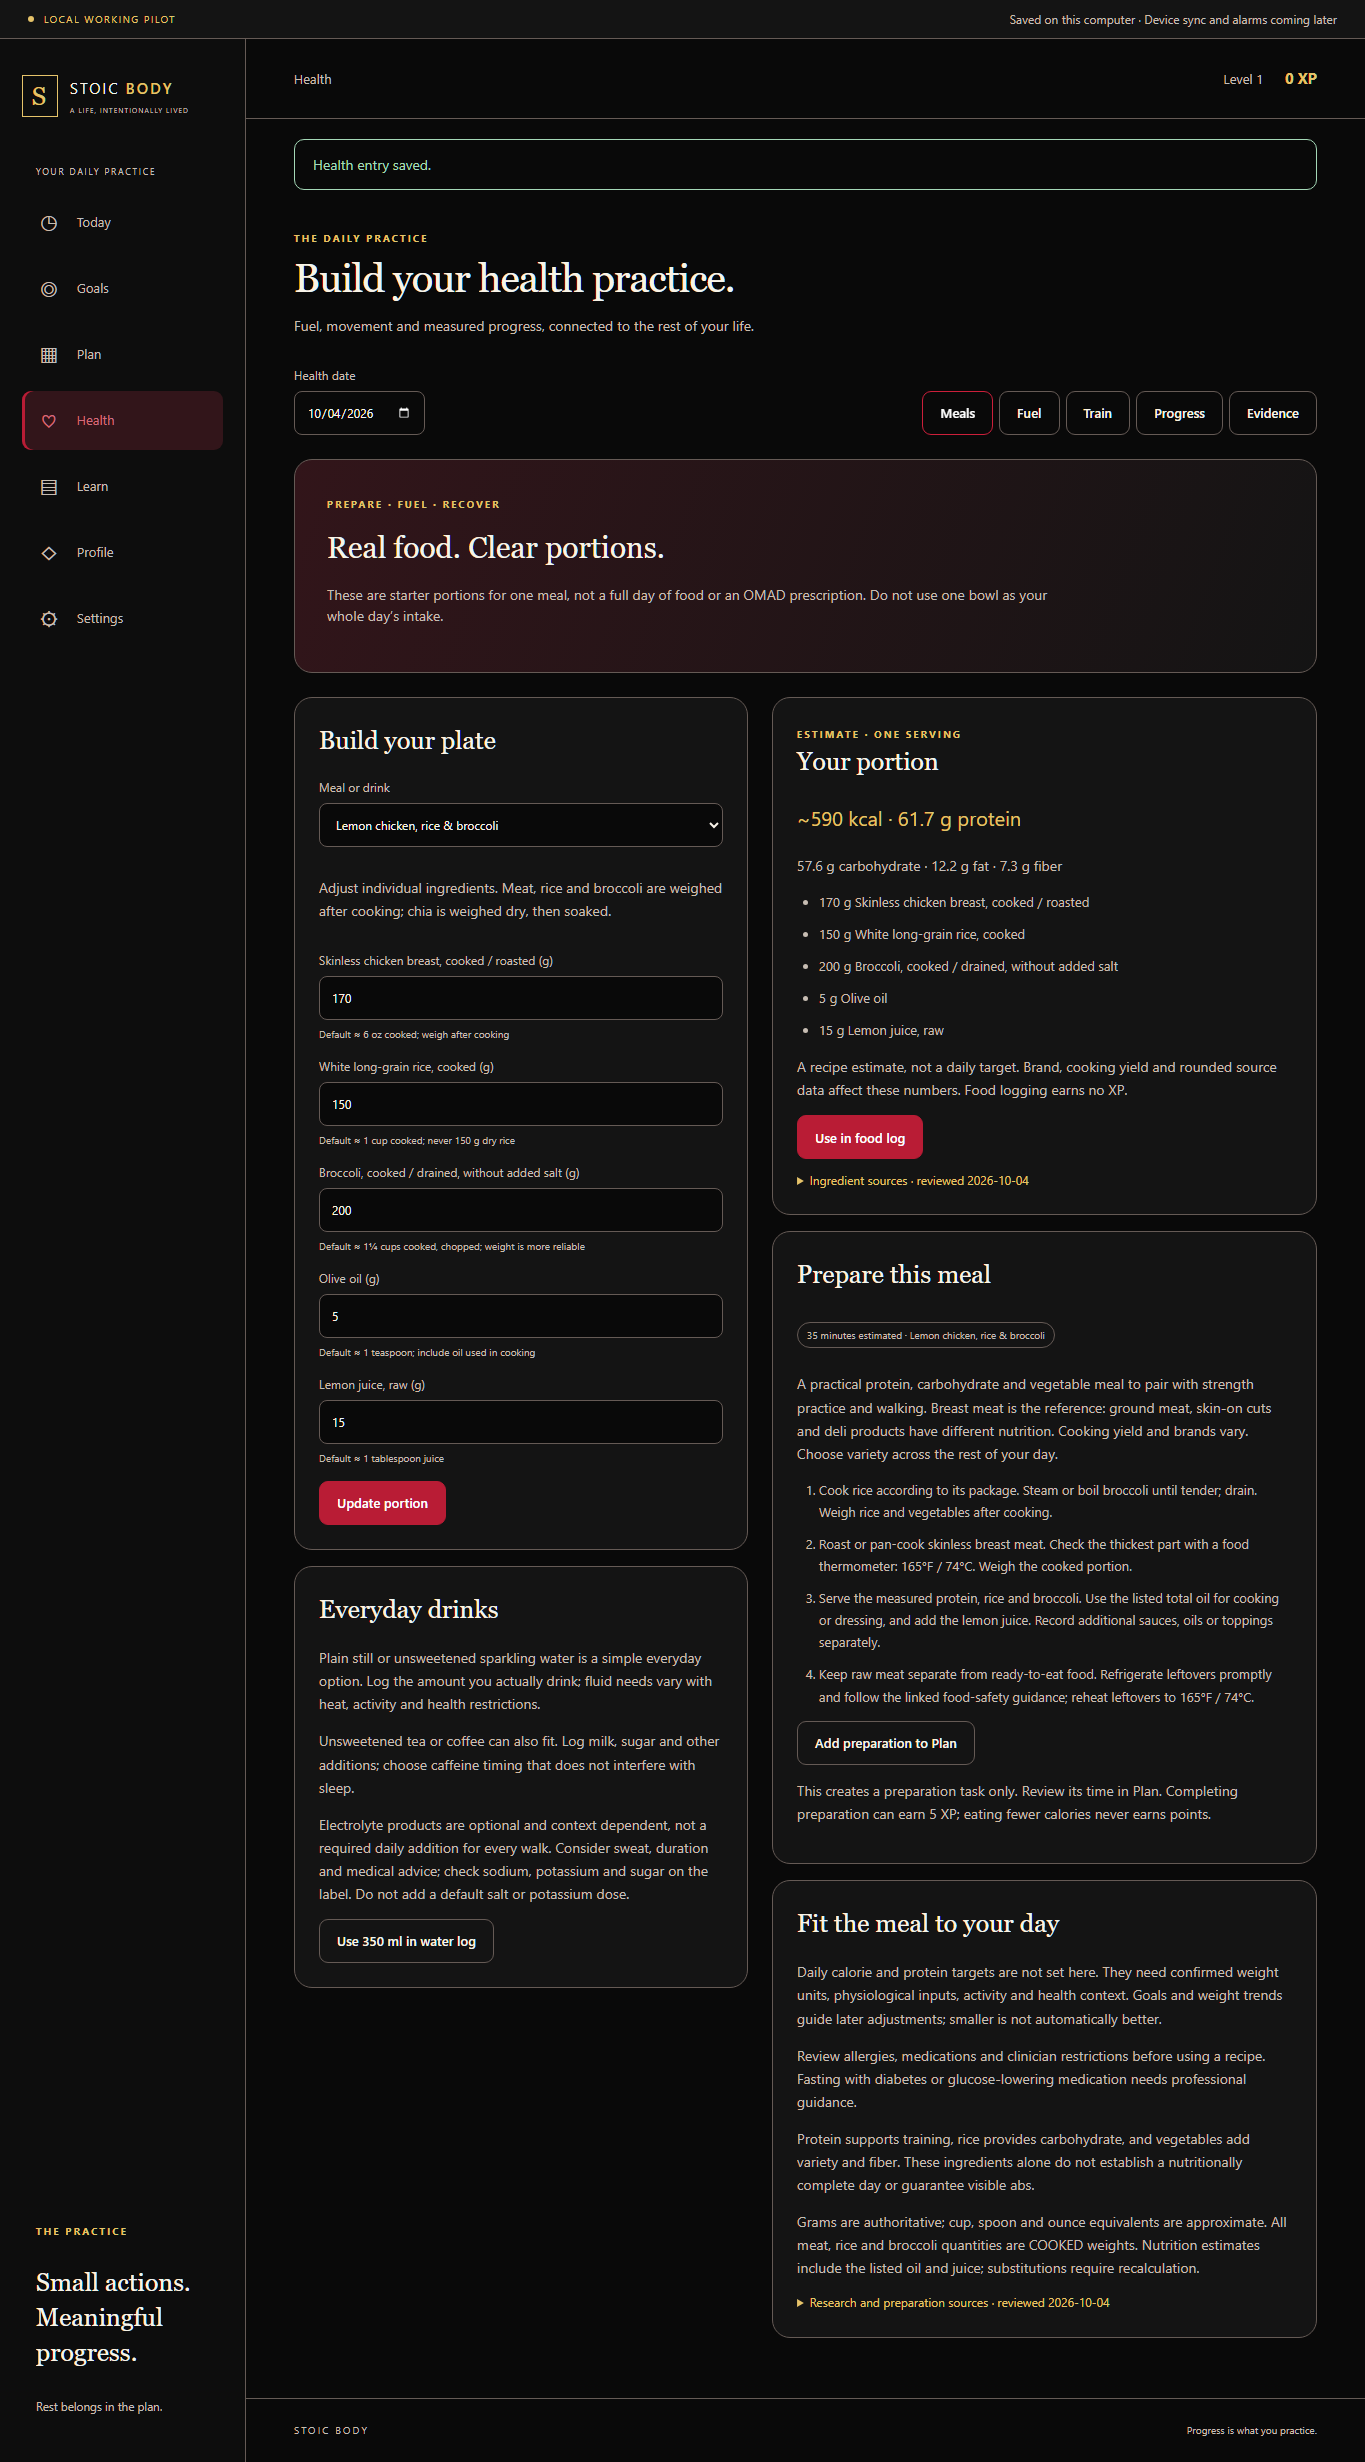
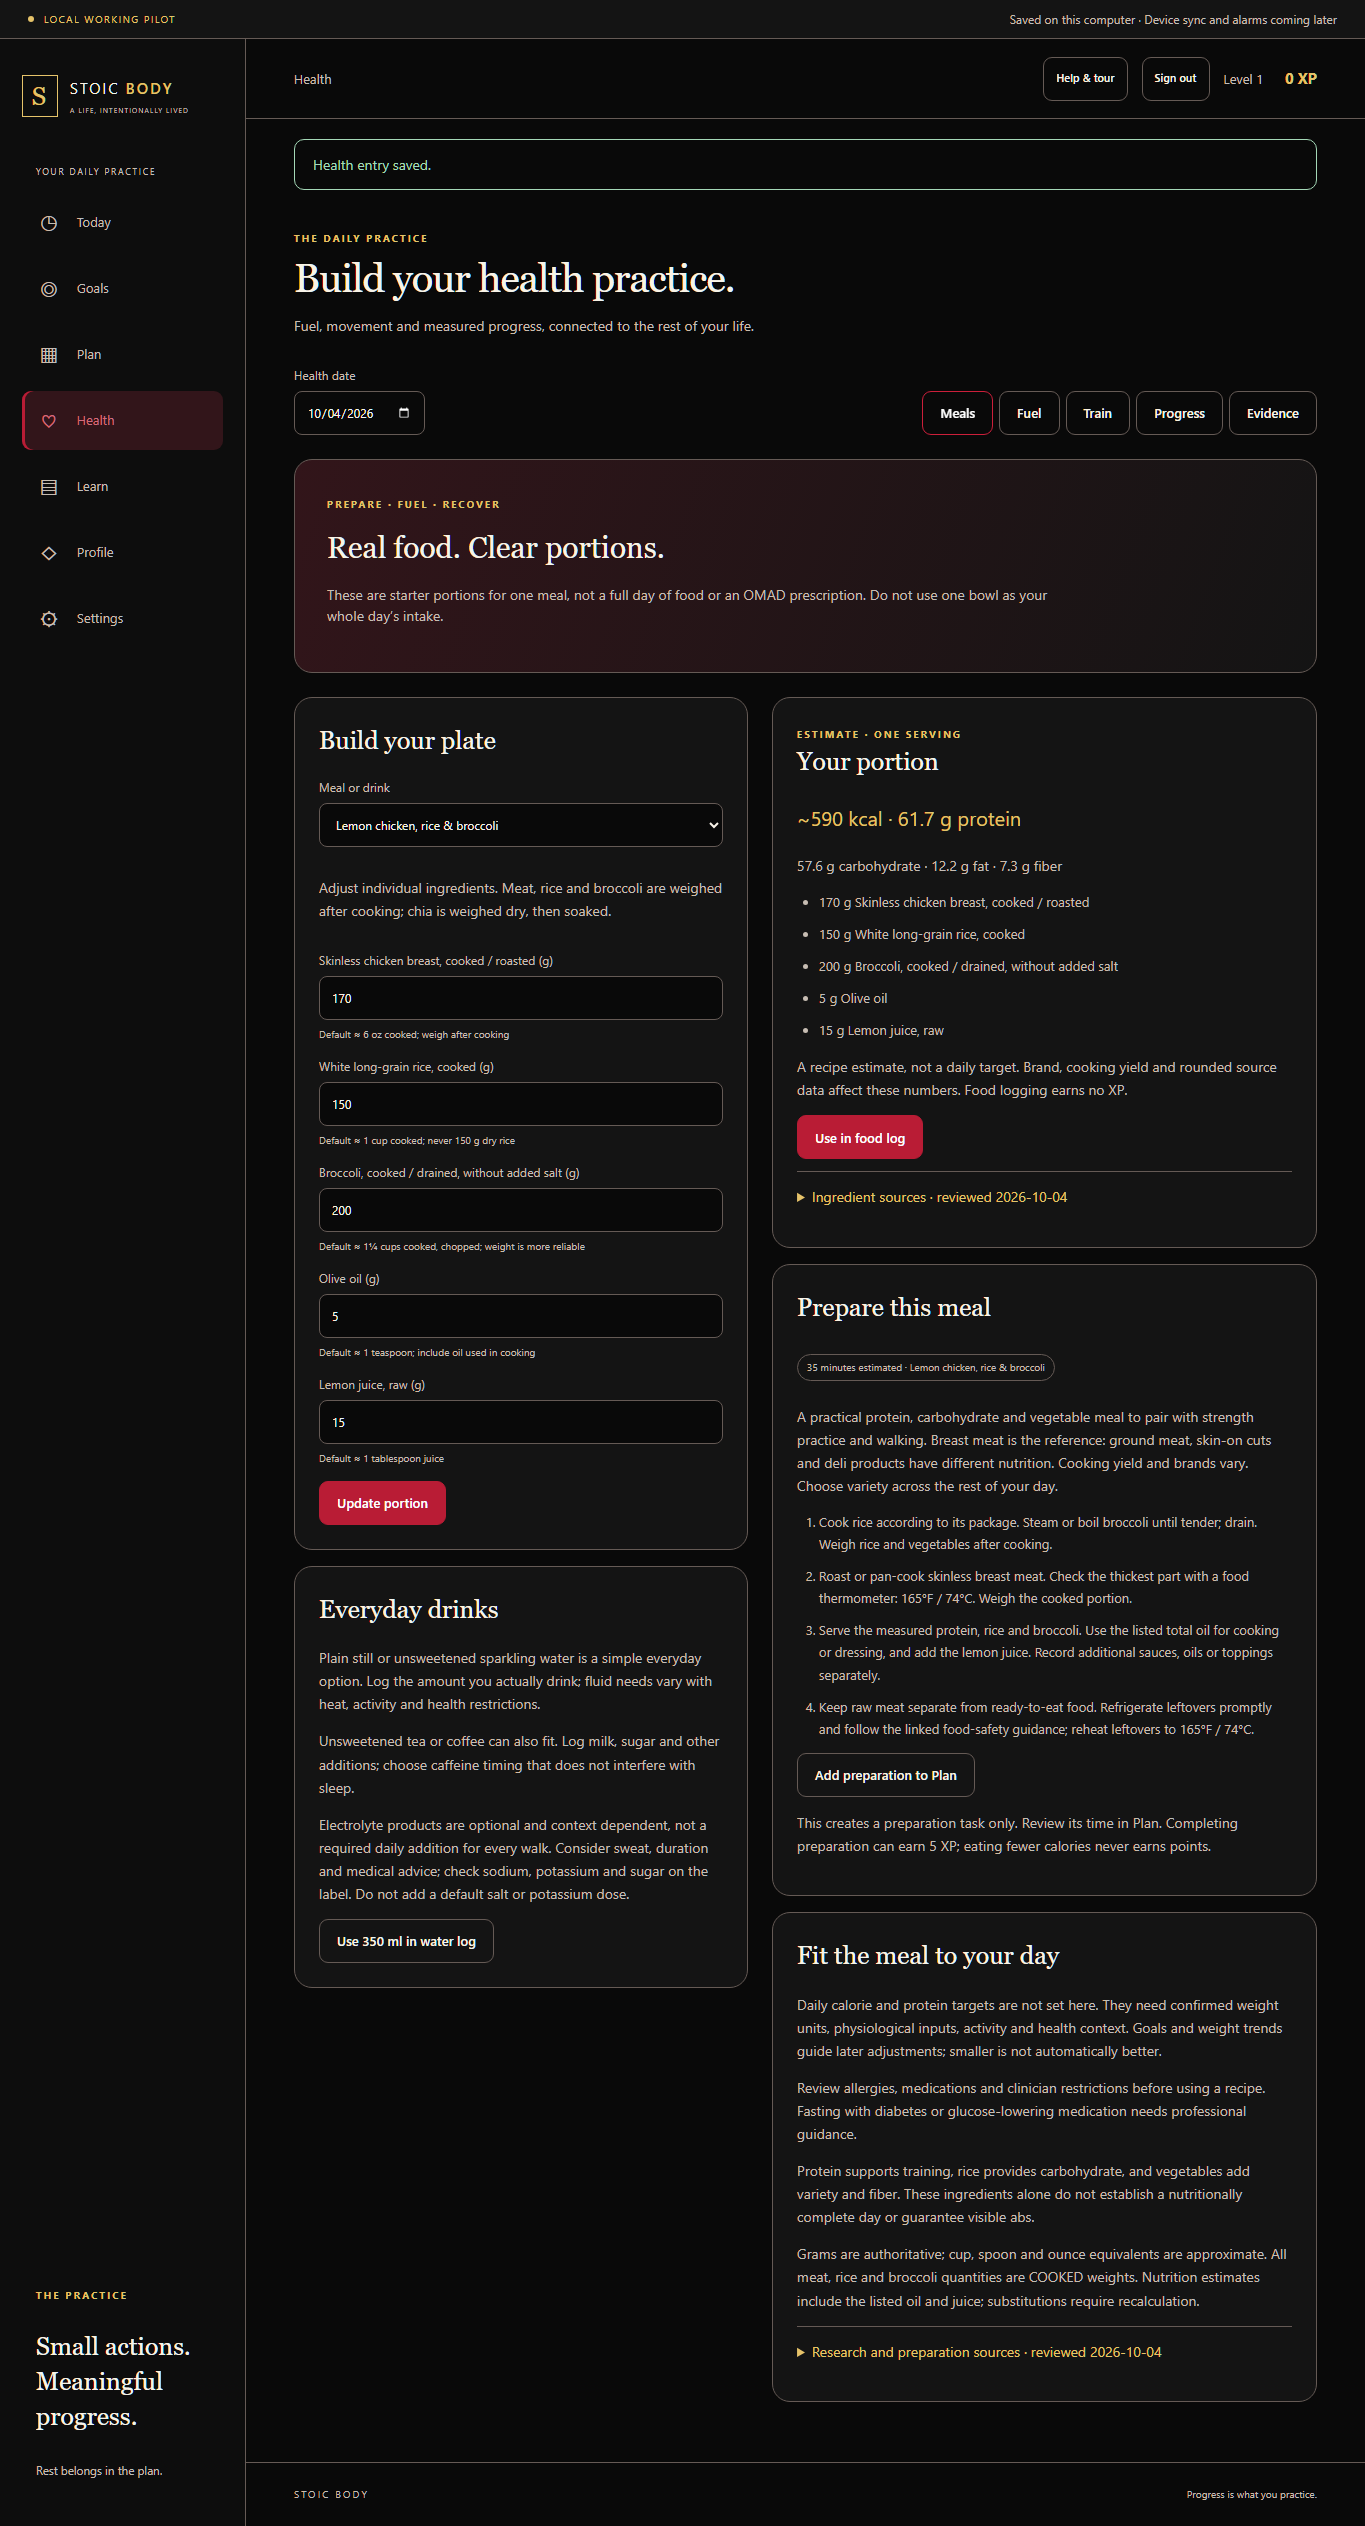
docs: record guided entry and desktop verification

diff --git a/docs/guided-entry-checkpoint.md b/docs/guided-entry-checkpoint.md
@@ -1,0 +1,55 @@
+# Guided entry and Windows download checkpoint
+
+2026-10-04. Scope: the user's login, new-client questionnaire and whole-app host request, plus a GitHub download for an independent client on another Windows computer. This is a local-pilot checkpoint, not completion of the commercial app.
+
+## Implemented and execution-verified
+
+- Local registration and sign-in; salted scrypt password hashing, one-time recovery keys, session expiry/revocation, CSRF checks and persistent rate limits. Recovery rotates the key and invalidates existing sessions. No email/social authentication is simulated.
+- A fresh account starts empty. Every data request uses the authenticated owner. Existing anonymous owner records remain untouched and are not claimed by a new account.
+- Welcome, twenty resumable questions in manageable groups, unknown/skip/back controls, explicit first-goal draft, setup checklist and always-available Help & tour.
+- Twelve tour stops across Today, Goals, Plan, five Health views, Learn, Profile, Settings and XP. Keyboard focus stays in the dialog; Escape pauses; replay is supported.
+- Windows x64 package bundles the actual local service, an explicit UI allowlist and Node v24.19.0. It excludes private records, environment files, the separate Next.js app and developer dependencies. No recipient Node/npm setup is needed.
+- Start/Stop launchers use a separate LOCALAPPDATA data folder. Stop validates executable path, command line and process creation time before stopping its own service. Reopening retains accounts and data.
+
+## Verification evidence
+
+| Check | Result |
+|---|---|
+| Unit, HTTP and browser test suite | 116/116 passed |
+| TypeScript and scoped ESLint | Passed |
+| Core pilot browser journey | 19 checks passed |
+| Health browser journey | 15 checks passed |
+| Learning browser journey | 13 checks passed |
+| Windows package smoke | Real bundled launcher, account creation, clean data, file hashes, stop and restart passed using isolated temporary data |
+| Visual review | Desktop welcome, setup and tour; mobile help checked from synthetic screenshots |
+| Extra account regressions | In-flight stale credentials and restored-page inactivity reproduced failing, then passed after fixes |
+
+Screenshots: [welcome](evidence/guided-entry/welcome-desktop.png), [questions](evidence/guided-entry/questionnaire-desktop.png), [tour](evidence/guided-entry/tour-desktop.png), [mobile help](evidence/guided-entry/host-mobile.png).
+
+The final independent review and GitHub release verification are pending at this checkpoint revision. Later evidence will be appended before publication. No synthetic account or personal profile has been written to the owner's live database.
+
+## Research and requirements
+
+[First-use benchmark research](research/guided-entry-benchmarks.md) documents Duolingo, Noom and Headspace interaction patterns using primary sources; no proprietary engagement measurements or bestseller ranking is claimed. [Plan](superpowers/plans/2026-10-04-guided-entry.md) records interfaces, constraints and verification.
+
+| Request | Design / implementation | Verification |
+|---|---|---|
+| Login and new client | AccountStore and Access; local owner/session boundary | accounts.test.ts, auth.test.ts, server.test.ts |
+| New-user questionnaire | Host; twenty core profile answers and separate guide progress | onboarding.test.ts |
+| Host and full-app tooltip tour | Host; real views, explicit next actions, pause/resume/replay | onboarding.test.ts; desktop/mobile images |
+| Wife's own goals and experience | Empty account, local persistent database, independent Windows download | auth isolation tests and test-desktop.mjs |
+| GitHub distribution | Allowlisted ZIP plus SHA-256 manifest, prerelease from implementation branch | Publication receipt to follow |
+
+## Limitations and next phase
+
+Automatic iPhone/iPad/Windows sync remains a launch requirement. This download supplies independent local accounts, not a cloud identity. Native alarms, automated backup/restore/export, public service hardening, signed store installers and complete profile-driven coaching remain unfinished. Questionnaire answers are saved; only described suggestions currently consume them. Appearance remains browser-local. SQLite is not encrypted against direct OS access.
+
+The next proposed work is required authenticated cross-device sync and launch reliability after this checkpoint is reviewed. No external provider, paid service or deployment is selected by this local release.
+
+## Decisions made in this slice
+
+- Proceed with the directly requested local implementation without repeating design approval; the cost of changing direction is revising the local UX.
+- Use installed SQLite/crypto for local accounts; a production sync/authentication adapter remains necessary.
+- Preserve unclaimed legacy owner data; populated legacy data requires a separately reviewed migration.
+- Retain the isolated branch and ignored evidence workspace; cost is modest local storage.
+- Publish the explicitly authorized GitHub prerelease from the implementation branch, preserving main and the separate application. The ZIP allowlist protects recipient downloads from developer data. Publication creates no public database service.

diff --git a/docs/research/guided-entry-benchmarks.md b/docs/research/guided-entry-benchmarks.md
@@ -12,3 +12,5 @@ These are established product benchmarks, not a current audited bestseller ranki
 Technical primary sources: [OWASP password storage](https://cheatsheetseries.owasp.org/cheatsheets/Password_Storage_Cheat_Sheet.html), [OWASP sessions](https://cheatsheetseries.owasp.org/cheatsheets/Session_Management_Cheat_Sheet.html), [WAI-ARIA modal dialog pattern](https://www.w3.org/WAI/ARIA/apg/patterns/dialog-modal/). Node's installed crypto supports scrypt without adding a dependency. Use OWASP's documented N=2^15/r=8/p=3 alternative, random tokens and server-side expiry/revocation. Native dialog supplies focus containment; Escape pauses rather than marking the tour complete. Loopback HTTP cookies are HttpOnly/SameSite=Strict; production requires HTTPS/Secure and a separately reviewed deployment boundary.
 
 No external AI service processes onboarding. Account isolation protects normal app access, not a person with direct OS/filesystem access to the SQLite database. Cloud recovery email, remote sync, public release hardening and production privacy controls remain launch work.
+
+Windows packaging uses the installed Node v24.19.0 x64 executable and includes its complete [official license and bundled notices](https://raw.githubusercontent.com/nodejs/node/v24.19.0/LICENSE), retrieved 2026-10-04. No additional runtime download or npm dependency installation was required. This is an unsigned browser-based local package, not a native Store release.

diff --git a/docs/progress.md b/docs/progress.md
@@ -38,3 +38,7 @@ The latest requests add competitor research at every phase, a Brilliant-informed
 Actual foods/portions requested by user are now implemented in Health → Meals. See meal-templates-checkpoint.md and research/meal-portions-and-drinks.md. This is an authorized correction within Health; daily targets still await missing inputs. Keep local branch/pilot and full launch requirements.
 
 Meal correction handoff: two independent review findings fixed with observed RED-to-GREEN tests. Final 107/107 automated tests, typecheck/lint, and read-only live meal smoke passed. Health browser journey passed 15 checks. Actual bowl estimates and remaining daily-target inputs are documented in meal-templates-checkpoint.md. Live service is running; user records were not seeded by testing.
+# Guided entry continuation — 2026-10-04
+
+Local accounts, first-use host, resumable questionnaire, guided tour and an independent Windows download are implemented. [Current checkpoint](guided-entry-checkpoint.md) records 116 passing tests, typecheck/lint, 47 additional browser checks, bundled launcher/restart verification and remaining launch gaps. Final independent review and GitHub publication receipt follow before handoff. This does not complete the automatic-sync or Store-release requirements.
+

diff --git a/docs/decisions.md b/docs/decisions.md
@@ -76,3 +76,6 @@ Phase 0 was approved on 2026-10-04 by the user message: Great. continue throguh 
 
 - DEC-57 — Meal request adds three cooked-weight protein/rice/broccoli recipes and two lemon/chia drink templates. Per-ingredient estimates retain provenance; no daily calorie or OMAD prescription is inferred from incomplete screening. Review before food logging; preparation enters the shared task list before schedule approval. No extra dependency, database schema, external account or deployment.
 - DEC-58 — Preserve the existing local branch and ignored evidence workspace. Continue the authorized feature without an extra phase-approval question; no unrelated next phase starts.
+
+- DEC-59 — The user requests a first-download host experience: implement real local accounts, optional/resumable twenty-question setup, explicit first-goal suggestions and a replayable whole-app tour. No personal goals or health plans are silently created.
+- DEC-60 — GitHub distribution is explicitly authorized for another client to download and customize independently. Package only the local pilot and installed runtime, with no owner data; preserve main and the separate application. This does not waive the previously required automatic sync or authorize public hosting of SQLite.

diff --git a/docs/requirements.md b/docs/requirements.md
@@ -121,3 +121,7 @@ Date: 2026-10-04. 101 requirements including the five learning additions below. 
 
 | N15 | User meal correction 2026-10-04 | Actual fish/turkey/chicken, rice, vegetables, portions and drinks | Health Meals catalog, per-ingredient calculator and existing log/Plan integration; Phase 5 correction | 5 core plus 7 browser tests; meal-templates-checkpoint.md. Full-day personalization and groceries remain open. |
 
+| ENTRY01 | User guided-entry request | Real login, new-client onboarding and resumable questionnaire | Local account/session boundary and Host setup; Phase 4 continuation | accounts/auth/onboarding tests; guided-entry-checkpoint.md. Cloud identity remains open. |
+| ENTRY02 | User whole-app host request | Explain each module, show next actions and provide replayable tooltips | Twelve-stop real-view tour, checklist and persistent help | Browser tour, keyboard Escape, resume/replay and mobile checks |
+| ENTRY03 | User spouse/GitHub request | Another client downloads a fresh copy and sets independent goals | Allowlisted Windows ZIP, fresh accounts and LOCALAPPDATA persistence | Real bundled launcher/account/restart smoke; final release receipt pending |
+
